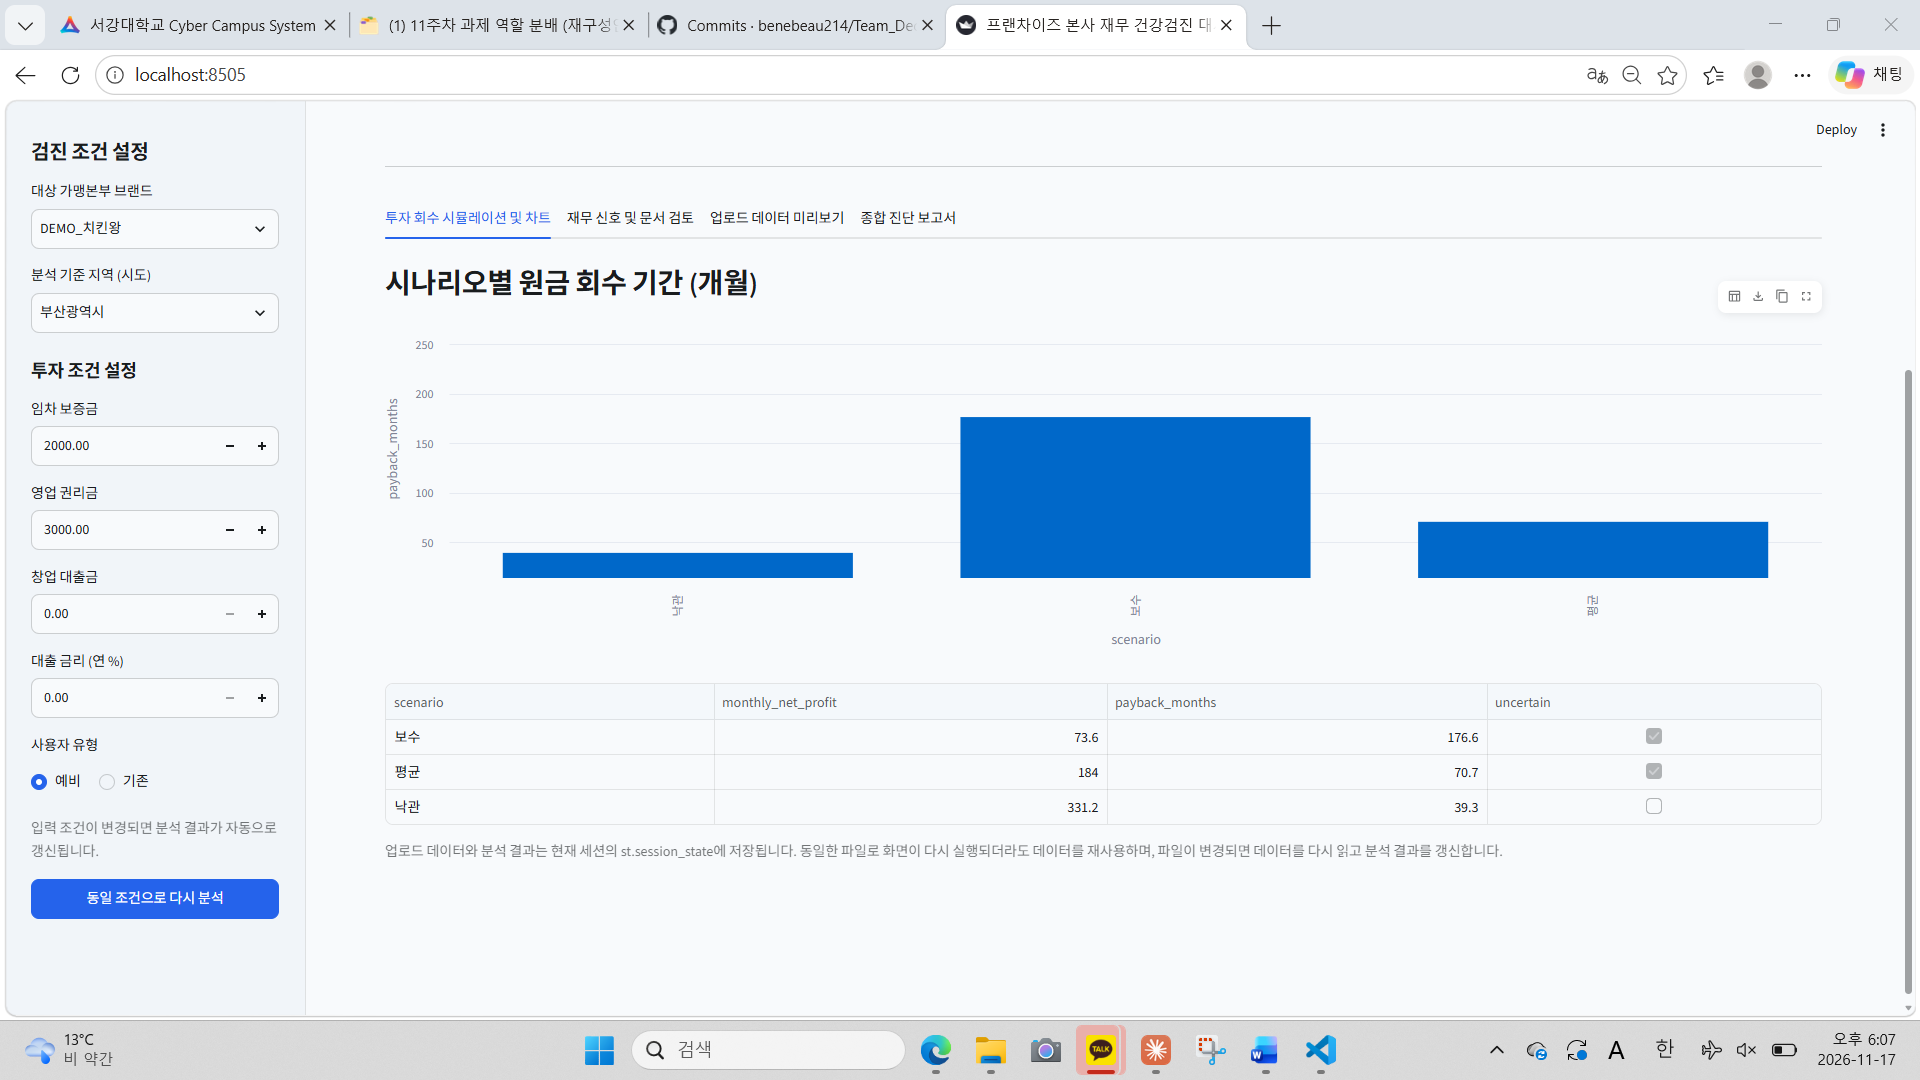
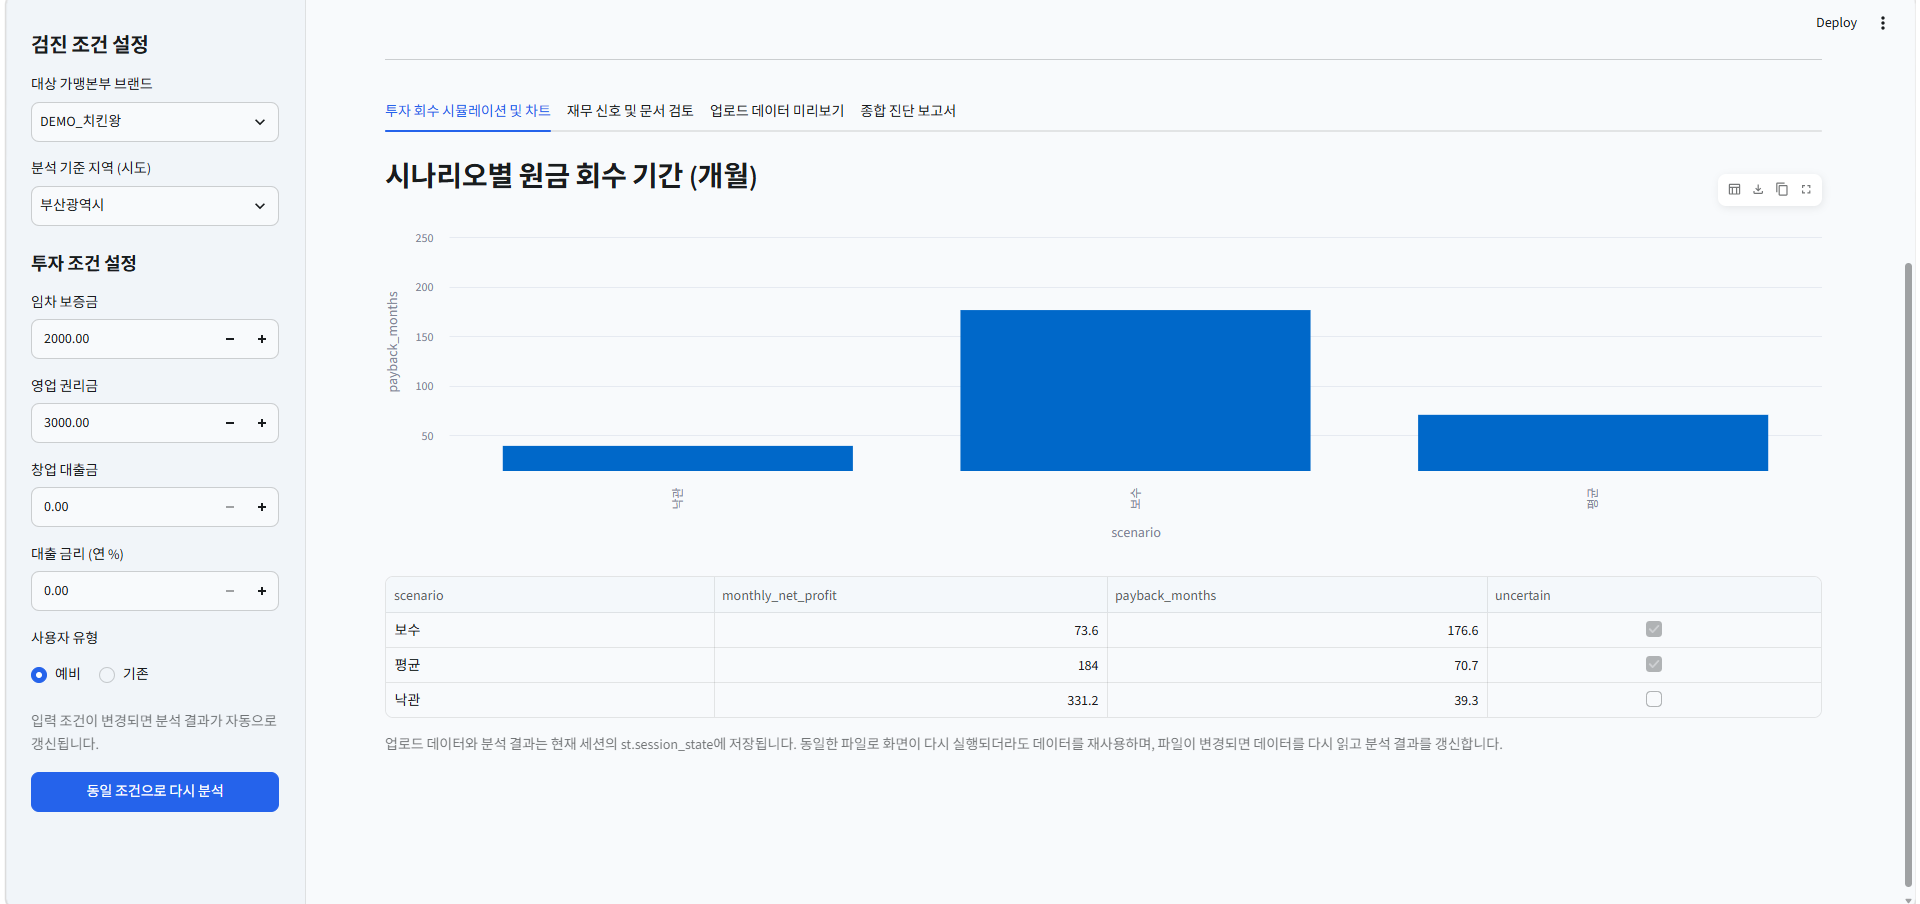
docs: 수동 검증 캡처에서 브라우저 탭·작업표시줄 제거 (개인정보 노출 방지)

diff --git a/ai_log/오채윤.md b/ai_log/오채윤.md
@@ -81,6 +81,8 @@
   3. 줄바꿈을 `<br>`로 변경
   4. 파일 이름을 `01_` 규칙으로 정리하고, 부족한 캡처(업로드 전, 회수 기간 표, 미리보기) 추가 촬영
   - 확인: 캡처 5장의 값이 백엔드 기준값과 일치 (부채비율 75.0%, 영업이익률 8.0%, 계약 해지율 5.0%, 회수 기간 176.6 / 70.7 / 39.3개월, 보고서 [MOCK] 표식)
+  5. 브라우저 탭·주소창·작업표시줄이 보이지 않도록 캡처 7장을 앱 화면 영역만 남기고 다시 잘라 저장
+
 - 커밋: 8fbf67e docs: 11주차 수동 검증 시나리오 1 결과 및 캡처 추가
 
 ### 11-3. [2026-11-17] 팀원 검증 결과 취합, 4-c 확인, 전체 회귀 확인
